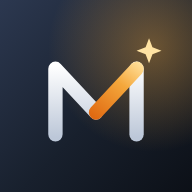
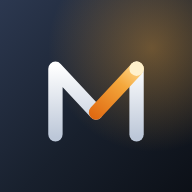
Sürüm 1.7.0: ayarlanabilir tur sıklığı, logoda nabız noktası
Claude-Session: https://claude.ai/code/session_01NBeY3q3apeg5ihvm1Bt56f

Changed region(s): [[0.6562, 0.1875, 0.8438, 0.4062]]

diff --git a/docs/index.html b/docs/index.html
@@ -45,12 +45,14 @@ header{position:sticky;top:0;z-index:5;background:var(--header-bg);backdrop-filt
 .lg .p1{animation-delay:.15s}.lg .p2{animation-delay:.55s}.lg .p3{animation-delay:.85s}
 .lg .edge{stroke-dasharray:100;stroke-dashoffset:100;opacity:0}
 .lg .shine{transform:translateX(-24px) skewX(-18deg);animation:shine 9s ease-in-out 1.6s infinite}
-.lg .spark{transform-box:fill-box;transform-origin:center;transform:scale(0);animation:spark .5s cubic-bezier(.3,1.6,.5,1) 1.25s forwards,twinkle 3.2s ease-in-out 2s infinite}
+.lg .spark{transform-box:fill-box;transform-origin:center;transform:scale(0);filter:drop-shadow(0 0 2px #FFC25A);animation:spark .45s cubic-bezier(.3,1.6,.5,1) 1.25s forwards,beat 2.4s ease-in-out 2s infinite}
+.lg .ring{transform-box:fill-box;transform-origin:center;opacity:0;animation:ring 2.4s ease-out 1.5s infinite}
 .lg.done .p2{filter:drop-shadow(0 0 1.6px rgba(255,180,70,.55))}
 @keyframes draw{to{stroke-dashoffset:0}}
 @keyframes shine{0%{transform:translateX(-24px) skewX(-18deg)}12%,100%{transform:translateX(64px) skewX(-18deg)}}
-@keyframes spark{0%{transform:scale(0) rotate(-90deg)}100%{transform:scale(1) rotate(0)}}
-@keyframes twinkle{0%,100%{opacity:1;transform:scale(1) rotate(0)}50%{opacity:.55;transform:scale(.72) rotate(45deg)}}
+@keyframes spark{0%{transform:scale(0)}100%{transform:scale(1)}}
+@keyframes beat{0%,100%{opacity:1;transform:scale(1)}50%{opacity:.75;transform:scale(.8)}}
+@keyframes ring{0%{opacity:.9;transform:scale(.6)}70%,100%{opacity:0;transform:scale(2.6)}}
 #splash{position:fixed;inset:0;z-index:50;display:grid;place-items:center;overflow:hidden;
   background:radial-gradient(120% 80% at 50% 40%,var(--surface) 0%,var(--bg) 72%);transition:opacity .45s ease,transform .45s ease}
 #splash.out{opacity:0;transform:scale(1.03);pointer-events:none}
@@ -67,7 +69,8 @@ header{position:sticky;top:0;z-index:5;background:var(--header-bg);backdrop-filt
 #splash .lg.big .edge{animation:edge 1.5s ease-in-out .3s forwards}
 @keyframes edge{0%{opacity:1;stroke-dashoffset:100}55%{opacity:1;stroke-dashoffset:0}100%{opacity:.0;stroke-dashoffset:0}}
 #splash .lg.big .shine{animation:shine 2.6s ease-in-out 1.35s infinite}
-#splash .lg.big .spark{animation:spark .55s cubic-bezier(.3,1.6,.5,1) 1.4s forwards,twinkle 1.6s ease-in-out 2s infinite}
+#splash .lg.big .spark{animation:spark .45s cubic-bezier(.3,1.6,.5,1) 1.4s forwards,beat 1.2s ease-in-out 1.9s infinite}
+#splash .lg.big .ring{animation:ring 1.2s ease-out 1.55s infinite}
 #splash .pt{position:absolute;left:50%;top:50%;width:var(--s);height:var(--s);border-radius:50%;background:#F4A73B;box-shadow:0 0 6px #F4A73B;opacity:0;
   animation:rise var(--d) ease-out var(--w) infinite}
 @keyframes rise{0%{opacity:0;transform:translate(var(--x),40px) scale(.6)}20%{opacity:.9}100%{opacity:0;transform:translate(calc(var(--x)*1.5),-150px) scale(1)}}
@@ -80,7 +83,7 @@ header{position:sticky;top:0;z-index:5;background:var(--header-bg);backdrop-filt
 @keyframes fade{to{opacity:1}}
 .thh{display:flex;align-items:baseline;justify-content:space-between;gap:8px;margin:16px 0 8px}
 .thh b{font-size:13.5px;font-weight:600}.thh span{font-size:11.5px;color:var(--muted)}
-@media (prefers-reduced-motion:reduce){.lg path,.lg rect{animation:none!important;stroke-dashoffset:0}.lg .spark{transform:none}.lg .shine{display:none}#splash *{animation:none!important;opacity:1!important;transform:none!important}}
+@media (prefers-reduced-motion:reduce){.lg path,.lg rect{animation:none!important;stroke-dashoffset:0}.lg .spark{transform:none}.lg .shine,.lg .ring{display:none}#splash *{animation:none!important;opacity:1!important;transform:none!important}}
 .ttl{flex:1;min-width:0}
 .ttl b{display:block;font-size:16px;font-weight:600;letter-spacing:.2px}
 .ttl span{font-size:12px;color:var(--muted)}
@@ -187,7 +190,8 @@ footer{font-size:11.5px;color:var(--faint);text-align:center;margin-top:22px;lin
 .track{width:44px;height:26px;border-radius:7px;background:var(--line);position:relative;flex:none;transition:background .15s}
 .track i{position:absolute;top:3px;left:3px;width:20px;height:20px;border-radius:5px;background:var(--knob);box-shadow:0 1px 2px rgba(0,0,0,.15);transition:left .15s}
 .sw.on .track{background:var(--amber)}.sw.on .track i{left:21px}
-.tiles.two{grid-template-columns:repeat(2,minmax(0,1fr))}
+.tiles.two{grid-template-columns:repeat(2,minmax(0,1fr))}.tiles.four{grid-template-columns:repeat(4,minmax(0,1fr))}
+.tile .ic.num{font-size:12.5px;font-weight:700;font-variant-numeric:tabular-nums}
 .warn{font-size:12px;color:var(--amber-ink);background:var(--amber-bg);border-radius:var(--r-sm);padding:9px 11px;margin-top:8px;display:flex;gap:8px;align-items:flex-start}
 .warn svg.i{width:16px;height:16px;margin-top:1px}
 .inp{width:100%;height:40px;border:1px solid var(--line);border-radius:var(--r-sm);padding:0 12px;font:inherit;font-size:14px;margin:10px 0 8px;background:var(--surface)}
@@ -276,12 +280,12 @@ footer{font-size:11.5px;color:var(--faint);text-align:center;margin-top:22px;lin
   <symbol id="i-copy" viewBox="0 0 24 24"><rect x="8" y="8" width="12" height="12" rx="2"/><path d="M16 8V6a2 2 0 00-2-2H6a2 2 0 00-2 2v8a2 2 0 002 2h2"/></symbol>
 </svg>
 
-<div id="splash"><div class="halo"></div><i class="pt" style="--x:-8px;--s:3px;--d:2.7s;--w:0.67s"></i><i class="pt" style="--x:47px;--s:3px;--d:2.6s;--w:0.68s"></i><i class="pt" style="--x:39px;--s:3px;--d:2.2s;--w:1.21s"></i><i class="pt" style="--x:-73px;--s:3px;--d:2.3s;--w:1.19s"></i><i class="pt" style="--x:54px;--s:3px;--d:3.3s;--w:1.48s"></i><i class="pt" style="--x:59px;--s:3px;--d:2.9s;--w:1.16s"></i><i class="pt" style="--x:-34px;--s:3px;--d:2.9s;--w:0.79s"></i><i class="pt" style="--x:17px;--s:3px;--d:2.8s;--w:1.40s"></i><i class="pt" style="--x:53px;--s:5px;--d:2.4s;--w:1.41s"></i><i class="pt" style="--x:73px;--s:3px;--d:2.6s;--w:1.37s"></i><div class="sp"><svg class="lg big" viewBox="0 0 48 48" aria-hidden="true"><defs><linearGradient id="sbg" x1="0" y1="0" x2="48" y2="48" gradientUnits="userSpaceOnUse"><stop offset="0" stop-color="#2C3850"/><stop offset=".55" stop-color="#18202D"/><stop offset="1" stop-color="#0C1017"/></linearGradient><radialGradient id="sgl" cx="38" cy="12" r="26" gradientUnits="userSpaceOnUse"><stop offset="0" stop-color="#F5A83A" stop-opacity=".38"/><stop offset="1" stop-color="#F5A83A" stop-opacity="0"/></radialGradient><linearGradient id="sau" x1="24" y1="30" x2="38" y2="12" gradientUnits="userSpaceOnUse"><stop offset="0" stop-color="#E06A12"/><stop offset=".6" stop-color="#F4A73B"/><stop offset="1" stop-color="#FFE09A"/></linearGradient><linearGradient id="swh" x1="0" y1="13" x2="0" y2="36" gradientUnits="userSpaceOnUse"><stop offset="0" stop-color="#FFFFFF"/><stop offset="1" stop-color="#BCC7D8"/></linearGradient><linearGradient id="sed" x1="0" y1="0" x2="48" y2="48" gradientUnits="userSpaceOnUse"><stop offset="0" stop-color="#FFE09A"/><stop offset=".5" stop-color="#F4A73B"/><stop offset="1" stop-color="#E06A12"/></linearGradient><linearGradient id="ssh" x1="0" y1="0" x2="14" y2="0" gradientUnits="userSpaceOnUse"><stop offset="0" stop-color="#fff" stop-opacity="0"/><stop offset=".5" stop-color="#fff" stop-opacity=".32"/><stop offset="1" stop-color="#fff" stop-opacity="0"/></linearGradient><clipPath id="scl"><rect width="48" height="48" rx="12"/></clipPath></defs><rect width="48" height="48" rx="12" fill="url(#sbg)"/><rect width="48" height="48" rx="12" fill="url(#sgl)"/><rect x=".75" y=".75" width="46.5" height="46.5" rx="11.25" fill="none" stroke="#fff" stroke-opacity=".09" stroke-width="1.5"/><rect class="edge" x="1" y="1" width="46" height="46" rx="11" pathLength="100" fill="none" stroke="url(#sed)" stroke-width="2"/><path class="tr" d="M11 35V14l13 14 13-14v21" fill="none" stroke="#fff" stroke-opacity=".1" stroke-width="4.6" stroke-linecap="round" stroke-linejoin="round"/><path class="p1" pathLength="40" d="M11 35V14l13 14" fill="none" stroke="url(#swh)" stroke-width="4.6" stroke-linecap="round" stroke-linejoin="round"/><path class="p3" pathLength="40" d="M37 14v21" fill="none" stroke="url(#swh)" stroke-width="4.6" stroke-linecap="round"/><path class="p2" pathLength="40" d="M24 28l13-14" fill="none" stroke="url(#sau)" stroke-width="4.6" stroke-linecap="round"/><g clip-path="url(#scl)"><rect class="shine" x="0" y="-6" width="14" height="60" fill="url(#ssh)"/></g><path class="spark" d="M41 4.2l1.1 2.9 2.9 1.1-2.9 1.1-1.1 2.9-1.1-2.9-2.9-1.1 2.9-1.1z" fill="#FFE3A3"/></svg><div class="nm">Masal</div><div class="spt">Senin için çalışır</div><div class="ld"><i></i></div></div></div>
+<div id="splash"><div class="halo"></div><i class="pt" style="--x:-8px;--s:3px;--d:2.7s;--w:0.67s"></i><i class="pt" style="--x:47px;--s:3px;--d:2.6s;--w:0.68s"></i><i class="pt" style="--x:39px;--s:3px;--d:2.2s;--w:1.21s"></i><i class="pt" style="--x:-73px;--s:3px;--d:2.3s;--w:1.19s"></i><i class="pt" style="--x:54px;--s:3px;--d:3.3s;--w:1.48s"></i><i class="pt" style="--x:59px;--s:3px;--d:2.9s;--w:1.16s"></i><i class="pt" style="--x:-34px;--s:3px;--d:2.9s;--w:0.79s"></i><i class="pt" style="--x:17px;--s:3px;--d:2.8s;--w:1.40s"></i><i class="pt" style="--x:53px;--s:5px;--d:2.4s;--w:1.41s"></i><i class="pt" style="--x:73px;--s:3px;--d:2.6s;--w:1.37s"></i><div class="sp"><svg class="lg big" viewBox="0 0 48 48" aria-hidden="true"><defs><linearGradient id="sbg" x1="0" y1="0" x2="48" y2="48" gradientUnits="userSpaceOnUse"><stop offset="0" stop-color="#2C3850"/><stop offset=".55" stop-color="#18202D"/><stop offset="1" stop-color="#0C1017"/></linearGradient><radialGradient id="sgl" cx="38" cy="12" r="26" gradientUnits="userSpaceOnUse"><stop offset="0" stop-color="#F5A83A" stop-opacity=".38"/><stop offset="1" stop-color="#F5A83A" stop-opacity="0"/></radialGradient><linearGradient id="sau" x1="24" y1="30" x2="38" y2="12" gradientUnits="userSpaceOnUse"><stop offset="0" stop-color="#E06A12"/><stop offset=".6" stop-color="#F4A73B"/><stop offset="1" stop-color="#FFE09A"/></linearGradient><linearGradient id="swh" x1="0" y1="13" x2="0" y2="36" gradientUnits="userSpaceOnUse"><stop offset="0" stop-color="#FFFFFF"/><stop offset="1" stop-color="#BCC7D8"/></linearGradient><linearGradient id="sed" x1="0" y1="0" x2="48" y2="48" gradientUnits="userSpaceOnUse"><stop offset="0" stop-color="#FFE09A"/><stop offset=".5" stop-color="#F4A73B"/><stop offset="1" stop-color="#E06A12"/></linearGradient><linearGradient id="ssh" x1="0" y1="0" x2="14" y2="0" gradientUnits="userSpaceOnUse"><stop offset="0" stop-color="#fff" stop-opacity="0"/><stop offset=".5" stop-color="#fff" stop-opacity=".32"/><stop offset="1" stop-color="#fff" stop-opacity="0"/></linearGradient><clipPath id="scl"><rect width="48" height="48" rx="12"/></clipPath></defs><rect width="48" height="48" rx="12" fill="url(#sbg)"/><rect width="48" height="48" rx="12" fill="url(#sgl)"/><rect x=".75" y=".75" width="46.5" height="46.5" rx="11.25" fill="none" stroke="#fff" stroke-opacity=".09" stroke-width="1.5"/><rect class="edge" x="1" y="1" width="46" height="46" rx="11" pathLength="100" fill="none" stroke="url(#sed)" stroke-width="2"/><path class="tr" d="M11 35V14l13 14 13-14v21" fill="none" stroke="#fff" stroke-opacity=".1" stroke-width="4.6" stroke-linecap="round" stroke-linejoin="round"/><path class="p1" pathLength="40" d="M11 35V14l13 14" fill="none" stroke="url(#swh)" stroke-width="4.6" stroke-linecap="round" stroke-linejoin="round"/><path class="p3" pathLength="40" d="M37 14v21" fill="none" stroke="url(#swh)" stroke-width="4.6" stroke-linecap="round"/><path class="p2" pathLength="40" d="M24 28l13-14" fill="none" stroke="url(#sau)" stroke-width="4.6" stroke-linecap="round"/><g clip-path="url(#scl)"><rect class="shine" x="0" y="-6" width="14" height="60" fill="url(#ssh)"/></g><circle class="ring" cx="37" cy="14" r="3" fill="none" stroke="#FFD27A" stroke-width="1.4"/><circle class="spark" cx="37" cy="14" r="2.3" fill="#FFF1CC"/></svg><div class="nm">Masal</div><div class="spt">Senin için çalışır</div><div class="ld"><i></i></div></div></div>
 
 <header>
   <div class="wrap">
     <div class="bar">
-      <div class="logo" id="logo"><svg class="lg" viewBox="0 0 48 48" aria-hidden="true"><defs><linearGradient id="hbg" x1="0" y1="0" x2="48" y2="48" gradientUnits="userSpaceOnUse"><stop offset="0" stop-color="#2C3850"/><stop offset=".55" stop-color="#18202D"/><stop offset="1" stop-color="#0C1017"/></linearGradient><radialGradient id="hgl" cx="38" cy="12" r="26" gradientUnits="userSpaceOnUse"><stop offset="0" stop-color="#F5A83A" stop-opacity=".38"/><stop offset="1" stop-color="#F5A83A" stop-opacity="0"/></radialGradient><linearGradient id="hau" x1="24" y1="30" x2="38" y2="12" gradientUnits="userSpaceOnUse"><stop offset="0" stop-color="#E06A12"/><stop offset=".6" stop-color="#F4A73B"/><stop offset="1" stop-color="#FFE09A"/></linearGradient><linearGradient id="hwh" x1="0" y1="13" x2="0" y2="36" gradientUnits="userSpaceOnUse"><stop offset="0" stop-color="#FFFFFF"/><stop offset="1" stop-color="#BCC7D8"/></linearGradient><linearGradient id="hed" x1="0" y1="0" x2="48" y2="48" gradientUnits="userSpaceOnUse"><stop offset="0" stop-color="#FFE09A"/><stop offset=".5" stop-color="#F4A73B"/><stop offset="1" stop-color="#E06A12"/></linearGradient><linearGradient id="hsh" x1="0" y1="0" x2="14" y2="0" gradientUnits="userSpaceOnUse"><stop offset="0" stop-color="#fff" stop-opacity="0"/><stop offset=".5" stop-color="#fff" stop-opacity=".32"/><stop offset="1" stop-color="#fff" stop-opacity="0"/></linearGradient><clipPath id="hcl"><rect width="48" height="48" rx="12"/></clipPath></defs><rect width="48" height="48" rx="12" fill="url(#hbg)"/><rect width="48" height="48" rx="12" fill="url(#hgl)"/><rect x=".75" y=".75" width="46.5" height="46.5" rx="11.25" fill="none" stroke="#fff" stroke-opacity=".09" stroke-width="1.5"/><rect class="edge" x="1" y="1" width="46" height="46" rx="11" pathLength="100" fill="none" stroke="url(#hed)" stroke-width="2"/><path class="tr" d="M11 35V14l13 14 13-14v21" fill="none" stroke="#fff" stroke-opacity=".1" stroke-width="4.6" stroke-linecap="round" stroke-linejoin="round"/><path class="p1" pathLength="40" d="M11 35V14l13 14" fill="none" stroke="url(#hwh)" stroke-width="4.6" stroke-linecap="round" stroke-linejoin="round"/><path class="p3" pathLength="40" d="M37 14v21" fill="none" stroke="url(#hwh)" stroke-width="4.6" stroke-linecap="round"/><path class="p2" pathLength="40" d="M24 28l13-14" fill="none" stroke="url(#hau)" stroke-width="4.6" stroke-linecap="round"/><g clip-path="url(#hcl)"><rect class="shine" x="0" y="-6" width="14" height="60" fill="url(#hsh)"/></g><path class="spark" d="M41 4.2l1.1 2.9 2.9 1.1-2.9 1.1-1.1 2.9-1.1-2.9-2.9-1.1 2.9-1.1z" fill="#FFE3A3"/></svg></div>
+      <div class="logo" id="logo"><svg class="lg" viewBox="0 0 48 48" aria-hidden="true"><defs><linearGradient id="hbg" x1="0" y1="0" x2="48" y2="48" gradientUnits="userSpaceOnUse"><stop offset="0" stop-color="#2C3850"/><stop offset=".55" stop-color="#18202D"/><stop offset="1" stop-color="#0C1017"/></linearGradient><radialGradient id="hgl" cx="38" cy="12" r="26" gradientUnits="userSpaceOnUse"><stop offset="0" stop-color="#F5A83A" stop-opacity=".38"/><stop offset="1" stop-color="#F5A83A" stop-opacity="0"/></radialGradient><linearGradient id="hau" x1="24" y1="30" x2="38" y2="12" gradientUnits="userSpaceOnUse"><stop offset="0" stop-color="#E06A12"/><stop offset=".6" stop-color="#F4A73B"/><stop offset="1" stop-color="#FFE09A"/></linearGradient><linearGradient id="hwh" x1="0" y1="13" x2="0" y2="36" gradientUnits="userSpaceOnUse"><stop offset="0" stop-color="#FFFFFF"/><stop offset="1" stop-color="#BCC7D8"/></linearGradient><linearGradient id="hed" x1="0" y1="0" x2="48" y2="48" gradientUnits="userSpaceOnUse"><stop offset="0" stop-color="#FFE09A"/><stop offset=".5" stop-color="#F4A73B"/><stop offset="1" stop-color="#E06A12"/></linearGradient><linearGradient id="hsh" x1="0" y1="0" x2="14" y2="0" gradientUnits="userSpaceOnUse"><stop offset="0" stop-color="#fff" stop-opacity="0"/><stop offset=".5" stop-color="#fff" stop-opacity=".32"/><stop offset="1" stop-color="#fff" stop-opacity="0"/></linearGradient><clipPath id="hcl"><rect width="48" height="48" rx="12"/></clipPath></defs><rect width="48" height="48" rx="12" fill="url(#hbg)"/><rect width="48" height="48" rx="12" fill="url(#hgl)"/><rect x=".75" y=".75" width="46.5" height="46.5" rx="11.25" fill="none" stroke="#fff" stroke-opacity=".09" stroke-width="1.5"/><rect class="edge" x="1" y="1" width="46" height="46" rx="11" pathLength="100" fill="none" stroke="url(#hed)" stroke-width="2"/><path class="tr" d="M11 35V14l13 14 13-14v21" fill="none" stroke="#fff" stroke-opacity=".1" stroke-width="4.6" stroke-linecap="round" stroke-linejoin="round"/><path class="p1" pathLength="40" d="M11 35V14l13 14" fill="none" stroke="url(#hwh)" stroke-width="4.6" stroke-linecap="round" stroke-linejoin="round"/><path class="p3" pathLength="40" d="M37 14v21" fill="none" stroke="url(#hwh)" stroke-width="4.6" stroke-linecap="round"/><path class="p2" pathLength="40" d="M24 28l13-14" fill="none" stroke="url(#hau)" stroke-width="4.6" stroke-linecap="round"/><g clip-path="url(#hcl)"><rect class="shine" x="0" y="-6" width="14" height="60" fill="url(#hsh)"/></g><circle class="ring" cx="37" cy="14" r="3" fill="none" stroke="#FFD27A" stroke-width="1.4"/><circle class="spark" cx="37" cy="14" r="2.3" fill="#FFF1CC"/></svg></div>
       <div class="ttl"><b>Masal</b><span>Senin için çalışır</span></div>
       <span class="chip" id="mode">Sanal mod</span>
       <button class="ibtn" id="reload" aria-label="Yenile"><svg class="i"><use href="#i-refresh"/></svg></button>
@@ -395,7 +399,7 @@ footer{font-size:11.5px;color:var(--faint);text-align:center;margin-top:22px;lin
 <div class="toast" id="toast" hidden></div>
 
 <script>
-const APP_VERSION='1.6.0';
+const APP_VERSION='1.7.0';
 const ICON={dip:'i-dip',trend:'i-trend',grid:'i-grid',live:'i-coins'};
 const COLORS={dip:'#2F6FDE',trend:'#7A5AC8',grid:'#178A5B',live:'#7C8696'};
 const AMBER='#D9861A';
@@ -493,12 +497,12 @@ function render(){
   renderMarket();
 }
 
-function nextRun(){const d=new Date();d.setSeconds(0,0);if(d.getMinutes()>=7)d.setHours(d.getHours()+1);d.setMinutes(7);return d}
+function nextRun(){const iv=(S?.settings?.interval_min||10)*6e4;let t=(S?.updated||Date.now())+iv;if(t<Date.now())t=Date.now();t=Math.ceil(t/3e5)*3e5;return new Date(t)}
 function updLine(){
   const p=(n,l=2)=>String(n).padStart(l,'0');
   const live=lastTick?(()=>{const d=new Date(lastTick);return `<b class="up">● Canlı ${p(d.getHours())}:${p(d.getMinutes())}:${p(d.getSeconds())}.${p(d.getMilliseconds(),3)}</b> · `})():'';
   const nr=nextRun();
-  document.getElementById('updated').innerHTML=live+(S?.updated?`Bot ${ago(S.updated)} · sonraki ${p(nr.getHours())}:${p(nr.getMinutes())}`:'Bot henüz çalışmadı');
+  document.getElementById('updated').innerHTML=live+(S?.updated?`Bot ${ago(S.updated)} · sonraki ~${p(nr.getHours())}:${p(nr.getMinutes())}`:'Bot henüz çalışmadı');
 }
 function livePrice(inst,fallback){return LP[inst]?.last??fallback}
 function liveEquity(x){return x.cash+x.positions.reduce((a,p)=>a+p.qty*livePrice(p.inst,p.price),0)}
@@ -709,6 +713,8 @@ function renderForm(){
    <div class="card" style="margin-top:8px"><div class="sw ${draft.paused?'on':''}" id="pauseSw"><div class="lb"><b style="font-size:13.5px">Botu durdur</b><span style="font-size:11.5px;color:var(--muted);display:block">Yeni alım yapılmaz; açık pozisyonların zarar sınırı çalışmaya devam eder</span></div><div class="track"><i></i></div></div>
    <div class="field" style="margin-top:12px;padding-top:12px;border-top:1px solid var(--line2)"><div class="lb"><b>Hepsini sat ve dur</b><span>Gerçek hesaptaki tüm coinleri hemen satar, botu durdurur</span></div>
    <button class="btn danger ${sellArm?'arm':''}" id="sellAll">${ic('i-sell')}${sellArm?'Emin misin? Dokun':'Hepsini sat'}</button></div></div></section>
+   <section><h2>${ic('i-clock')}Tur sıklığı</h2><div class="tiles four" data-g="iv">${[[10,'10 dk'],[15,'15 dk'],[30,'30 dk'],[60,'1 saat']].map(([m,n])=>`<button class="tile ${(draft.interval_min||10)===m?'on':''}" data-t="${m}"><span class="ic num">${m}</span><span class="nm">${n}</span></button>`).join('')}</div>
+   <div class="hint">Bot bu aralıkla kendiliğinden çalışır; uygulama kapalı olsa da. Ayar kaydedince hemen bir tur atar.</div></section>
    <section><h2>${ic('i-target')}Strateji</h2><div class="tiles" data-g="strat">${['grid','dip','trend'].map(k=>tile(draft.strategy===k,k,ICON[k],SNAMES[k])).join('')}</div>
    ${draft.strategy!==orig.strategy&&orig.live?`<div class="warn">${ic('i-info')}<div>Gerçek modda strateji değişince eski stratejinin açık coinleri satılır, yeni strateji temiz başlar.</div></div>`:''}</section>`;
   h+=notifySection();
@@ -717,6 +723,7 @@ function renderForm(){
   h+=installSection();
   const f=document.getElementById('setForm');f.innerHTML=h;
   f.querySelectorAll('[data-g=mode] .tile').forEach(b=>b.onclick=()=>{draft.live=b.dataset.t==='real';renderForm()});
+  f.querySelectorAll('[data-g=iv] .tile').forEach(b=>b.onclick=()=>{draft.interval_min=+b.dataset.t;renderForm()});
   f.querySelectorAll('[data-g=strat] .tile').forEach(b=>b.onclick=()=>{draft.strategy=b.dataset.t;renderForm()});
   document.getElementById('pauseSw').onclick=()=>{draft.paused=!draft.paused;renderForm()};
   bindNotify();bindInstall();
@@ -753,6 +760,7 @@ async function loadSettings(){
     else{orig=await fetch('ayarlar.json?t='+Date.now()).then(r=>r.json())}
   }catch(e){orig=S?.settings||null;if(e===401){token='';localStorage.removeItem('masal_token');toast('GitHub anahtarının süresi dolmuş, yeniden bağlan')}}
   if(!orig){document.getElementById('setForm').innerHTML=`<div class="empty">${ic('i-info')}<div>Ayarlar yüklenemedi</div></div>`;return}
+  if(orig&&!orig.interval_min)orig.interval_min=10;
   if(orig&&!orig.notify)orig.notify={enabled:false,topic:'',trades:true,alerts:true,daily:true};
   topicPlain='';
   if(pw&&orig.notify?.topic?.enc){try{topicPlain=await unseal(orig.notify.topic,pw)}catch(e){}}

diff --git a/docs/sw.js b/docs/sw.js
@@ -1,5 +1,5 @@
 // Masal: çevrimdışıyken son görüntülenen sayfa ve veriler gösterilir. Her zaman önce ağ denenir.
-const CACHE = 'masal-1.6.0';
+const CACHE = 'masal-1.7.0';
 const SHELL = ['./', 'index.html', 'manifest.webmanifest', 'favicon.svg', 'icon-192.png', 'icon-512.png'];
 
 self.addEventListener('install', e => {

diff --git a/bot/gate.py b/bot/gate.py
@@ -1,0 +1,37 @@
+"""Zamanlanmış tetiklemede botun bu sefer çalışıp çalışmayacağına karar verir.
+
+GitHub her 5 dakikada bir uyandırır; bot, uygulamada seçilen sıklığa (dakika)
+göre ya tam tur yapar ya da hiçbir şey yapmadan hemen kapanır.
+Sadece standart kütüphane kullanır (paket kurulumundan önce çalışır).
+"""
+import json, os, sys, time
+
+ALLOWED = (10, 15, 30, 60)
+
+
+def decide(event, schedule, now_ms):
+    if event != "schedule" or schedule == "40 2 * * 1":
+        return True, "elle/ayar/haftalık tetikleme"
+    try:
+        iv = int(json.load(open("docs/ayarlar.json", encoding="utf-8")).get("interval_min", 10))
+    except Exception:
+        iv = 10
+    if iv not in ALLOWED:
+        iv = 10
+    try:
+        last = int(json.load(open("docs/data/summary.json", encoding="utf-8")).get("updated") or 0)
+    except Exception:
+        last = 0
+    gap = (now_ms - last) / 60000
+    # GitHub zamanlayıcısı birkaç dakika kayabildiği için 2,5 dk tolerans
+    return gap >= iv - 2.5, f"son turdan {gap:.1f} dk geçti, sıklık {iv} dk"
+
+
+if __name__ == "__main__":
+    ok, why = decide(os.environ.get("EVENT", ""), os.environ.get("SCHEDULE", ""), int(time.time() * 1000))
+    print(("Çalışıyor: " if ok else "Atlandı: ") + why)
+    out = os.environ.get("GITHUB_OUTPUT")
+    if out:
+        with open(out, "a") as f:
+            f.write(f"run={'true' if ok else 'false'}\n")
+    sys.exit(0)

diff --git a/bot/settings.py b/bot/settings.py
@@ -15,6 +15,7 @@ DEFAULTS = {
     "paused": False,        # True: gerçek hesapta yeni alım yapılmaz (açık pozisyonlar korunur)
     "liquidate": 0,         # zaman damgası; yeniyse gerçek hesaptaki her şey satılır
     "strategy": "grid",
+    "interval_min": 10,     # bot turu sıklığı (dakika): 10 / 15 / 30 / 60
     "budget": 2000,         # bottaki başlangıç parası (TL)
     "kasa": 10000,          # hesaptaki toplam kasa (TL)
     "topup": {"amount": 1000, "profit_pct": 5, "days": 7},
